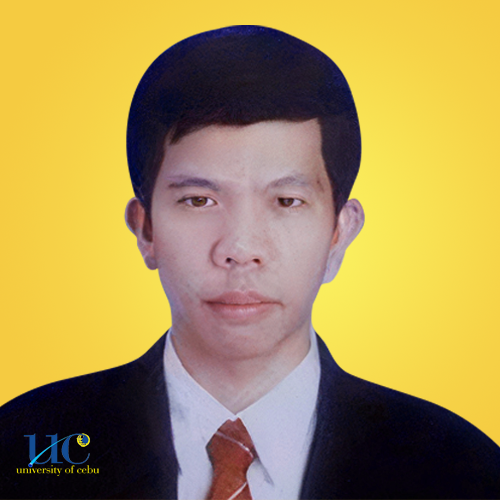
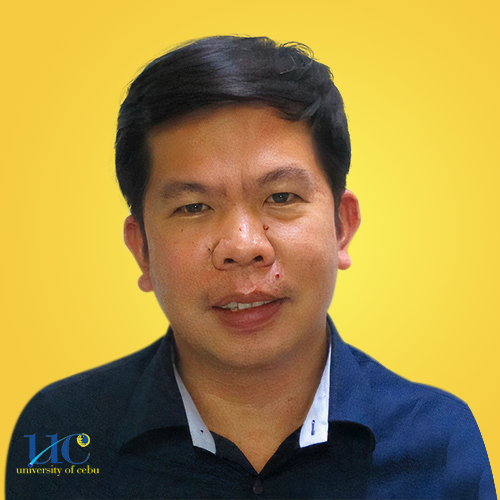
V1.1 -Changed the dean photo and added some css.

diff --git a/PSITSweb/templates/MyOrders.html b/PSITSweb/templates/MyOrders.html
@@ -1,41 +1,78 @@
-<!DOCTYPE html>
-<html lang="en">
-<head>
-    <meta charset="UTF-8">
-    <title>Title</title>
-</head>
-<body>
-    <table border="">
-        <thead>
-            <tr>Product</tr>
-            <tr>Date</tr>
-            <tr>Item</tr>
-            <tr>Quantity</tr>
-            <tr>Status</tr>
-            <tr>Total</tr>
-            <tr>Additional Info</tr>
-            <tr>Reference</tr>
-        </thead>
-        <tbody>
-            {% for order in orders %}
-            <tr>
-                <td>
-                {% if order.merch.image_file != '' %}
+{% extends 'base.html '%}
 
-                <img class="merch_product" id="{{order.merch.uid}}" loading="lazy"
+{% block content %}
+<br />
+<button class="backButton" onclick="merchandise()">Back</button>
+<br />
+
+<div class="orderTitle"><center><h1>MY ORDERS</h1></center> <br /> <hr></div>
+<br />
+<br />
+
+<br />
+<div class="myOrder">
+    <table>
+        <br />
+        <thead>
+            <tr>
+            <th></th>
+            <th>Item</th>
+            <th class="hide">Additional Info</th>
+            <th>Date</th>
+            <th class="hide">Quantity</th>
+            <th>Status</th>
+            <th class="hide">Total</th>
+           
+            <th>Reference</th>
+            </tr>
+            <tr></tr>
+        </thead>
+       
+        <tbody>
+       
+            {% for order in orders %}
+           
+            <tr>
+                <td class="order_img">
+                {% if order.merch.image_file != '' %}
+                <img id="{{order.merch.uid}}" loading="lazy"
                     src="{{ url_for('download_file', filename=order.merch.image_file) }}">
                 {% endif %}
                 </td>
-                <td>{{order.order.order_date}}</td>
                 <td>{{order.merch.title}}</td>
-                <td>{{order.order.quantity}}</td>
-                <td>{{order.getStatus()}}</td>
-                <td>{{'%0.2f'| format(order.getTotal()|float)}}</td>
-                <td>{{order.order.additional_info}}</td>
-                <td>{{order.reference}}</td>
+                <td class="order_info hide">{{order.order.additional_info}}</td>
+                <td>{{order.order.order_date}}</td>
+                
+                <td class="hide">{{order.order.quantity}}</td>
+                {% if order.getStatus() =='ORDERED'%}
+                <td style="color:red;" >{{order.getStatus()}}</td>
+                    {% elif order.getStatus() =='PAID'%}
+                    <td style="color:orange;" >{{order.getStatus()}}</td>
+                    {% else %}
+                    <td style="color:green;" >{{order.getStatus()}}</td>
+                    {% endif %}
+                </td>
+                <td class="hide">₱{{'%0.2f'| format(order.getTotal()|float)}}</td>
+                
+                <td> {{order.reference}}</td>
             </tr>
+        
             {% endfor %}
+           
         </tbody>
     </table>
-</body>
-</html>
+</div>
+<br />
+<br />
+<br />
+<br />
+<br />
+<br />
+<br />
+<br />
+<br />
+<br />
+<br />
+<br />
+<br />
+{% endblock %}

diff --git a/PSITSweb/static/base.css b/PSITSweb/static/base.css
@@ -80,7 +80,9 @@
 body {
     background-color: #f0f2f5;
     display: block;
-    min-height:100vh;
+    min-height: 100vh;
+    height: 100%;
+    
 }
 
 /* .wrapper {
@@ -107,6 +109,9 @@ body {
     background-color: white;
 }
 
+.hide{
+   
+}
 /* .content {
     flex-grow: 1;
 } */
@@ -856,13 +861,13 @@ body {
 }
 
 */
+
+
 .footerPage {
     background-color: #074873;
     color: white;
     width: 100%;
     padding:20px;
-    
-
 }
 
 .footerPage hr {
@@ -1391,6 +1396,65 @@ body {
     height:100px;
 }
 
+.orderTitle{
+    color:#004064;
+    font-size: 150%;
+}
+.orderTitle hr{
+    opacity: 0.3;
+}
+.myOrder{
+    width:100%;
+    margin:auto;
+    margin-left:10px;
+
+
+
+}
+.myOrder table{
+    width:100%;
+    padding:20px 20px;
+    border-collapse: collapse;
+}
+.myOrder table img {
+    width:100px;
+}
+
+.myOrder table thead tr{
+
+}
+.myOrder table thead th{
+    font-size:90%;
+   text-align: center;
+   justify-content: center;
+   margin: auto;
+   height:100px;
+}
+
+.myOrder table tbody tr{
+    background-color: white;
+    box-shadow: rgba(9, 30, 66, 0.25) 0px 4px 8px -2px, rgba(9, 30, 66, 0.08) 0px 0px 0px 1px;
+  
+}
+
+.myOrder table tbody td{
+    margin:auto;
+    justify-content: center;
+    text-align: center;
+    white-space: break-spaces;
+    font-size:90%;
+}
+.myOrder table tbody .order_img{
+    width:10%;
+}
+.myOrder table tbody tr .order_info{
+    max-width:100px;
+    white-space: pre-line;
+word-wrap: break-word;
+
+    
+}
+
 /*=========================================================================*/
 /*END OF MERCHANDISE CSS*/
 /*==========================================================================*/
@@ -1732,6 +1796,10 @@ body {
         align-items: center;
    
     }
+    .hide{
+        display:none;
+    }
+    
 }
 
 @media(max-width:915px){

diff --git a/PSITSweb/templates/aboutUs.html b/PSITSweb/templates/aboutUs.html
@@ -139,9 +139,6 @@
         Offer relevant programs<br> that mold well-rounded computing <br>professionals;<br><br>
         Engage in accreditation and<br>quality standards; and<br><br>
         Facilitate in building an IT-enabled nation.
-
-        
-        
         </span>
       </div>
       <div class="centerLine"><hr></div>
@@ -154,8 +151,21 @@
           Meets the demands of the industry in terms of technical,<br> personal and interpersonal skills;<br><br>
           Conducts intellectual, technological and significant<br> researches in computing; and<br><br>
           Optimizes the use of appropriate and <br>advanced resources and services.<br>
-        
-        
+        </span>
+      </div>
+      <div class="centerLine"><hr></div>
+      <div class="rightAboutUs">
+        <h1>CORE VALUES</h1>
+        <br>
+        <span>
+          <b>These are the core values that CCS believes in:</b> <br />
+          <b>Initiative (inceptum)</b><br />
+          wit, practicality, ingenuity <br /><br />
+          <b>Innovation (innovatio)</b><br />
+          technology, creativity, novelty<br /><br />
+          <b>Service (muneris)</b><br />
+          industry, loyalty, courtesy<br /><br />
+
         </span>
       </div>
     </div>
@@ -169,7 +179,10 @@
 <br />
 
 <hr>
-<div class="alumniShoutOuts">
+<div class="developers">
+  <h1>Developers' Message</h1>
+</div>
+<!-- <div class="alumniShoutOuts">
   <center>
     <h1>STUDENTS ALUMNI SHOUTOUTS!</h1>
     {% for officer in officers %}
@@ -181,7 +194,7 @@
     <p>{{officer.position}}</p>
     {% endfor %}
   </center>
-</div>
+</div> -->
 <br />
 <br />
 <br />

diff --git a/PSITSweb/templates/Homepage.html b/PSITSweb/templates/Homepage.html
@@ -6,7 +6,7 @@
 <div class="dean">
     <div class="leftContent">
         <div class="imageContent">
-        <img src="{{url_for('static', filename='images/dean.jpg')}}">
+        <img src="{{url_for('static', filename='images/faculties/fulltime/basabe.png')}}">
         <br>
         <br>
         <h3>Mr. Neil Basabe</h3>

diff --git a/PSITSweb/templates/Base.html b/PSITSweb/templates/Base.html
@@ -28,7 +28,6 @@
 </head>
 
 <body>
-
       
         <!-- The Modal -->
         <div class="modal" id="logoutModal">
@@ -98,6 +97,7 @@
     <br/>
     <br/>
     <br/>
+
     <div class="footerPage">
 
         <div class="footerUpper">

diff --git a/PSITSweb/webapp.py b/PSITSweb/webapp.py
@@ -435,7 +435,8 @@ def psits_my_orders_list():
                 )
 
             
-            return render_template('MyOrders.html', orders = ALL_ORDERS)
+            return render_template('MyOrders.html', orders = ALL_ORDERS, title='My Orders', logout='block', 
+                    login='none', account_data=getAccountByID(session['username']))
     return redirect(url_for("login_page"))
 
 
